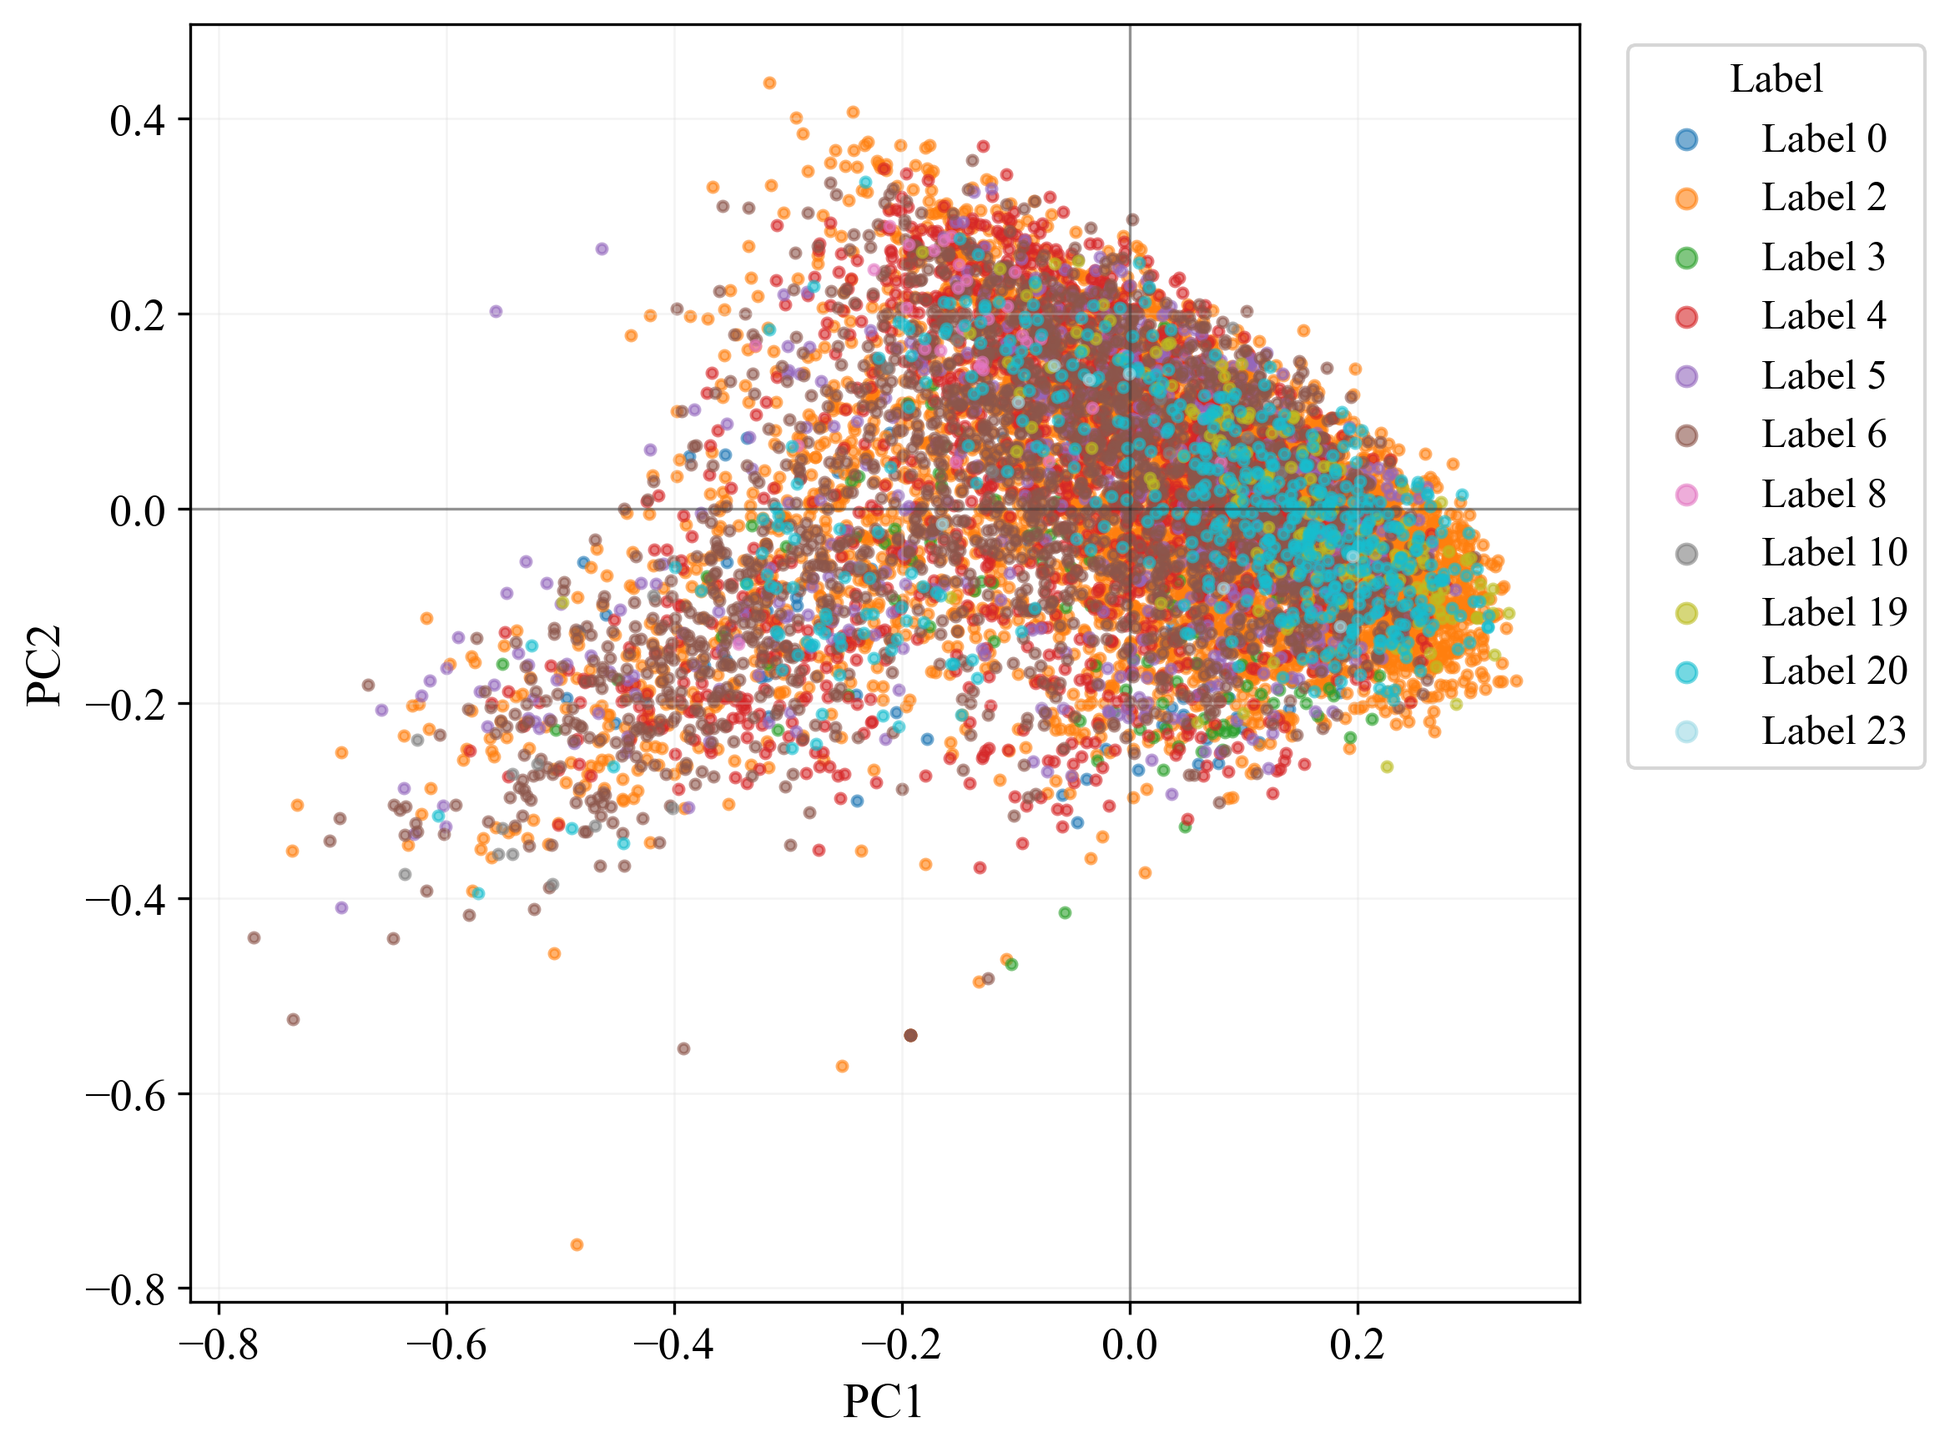
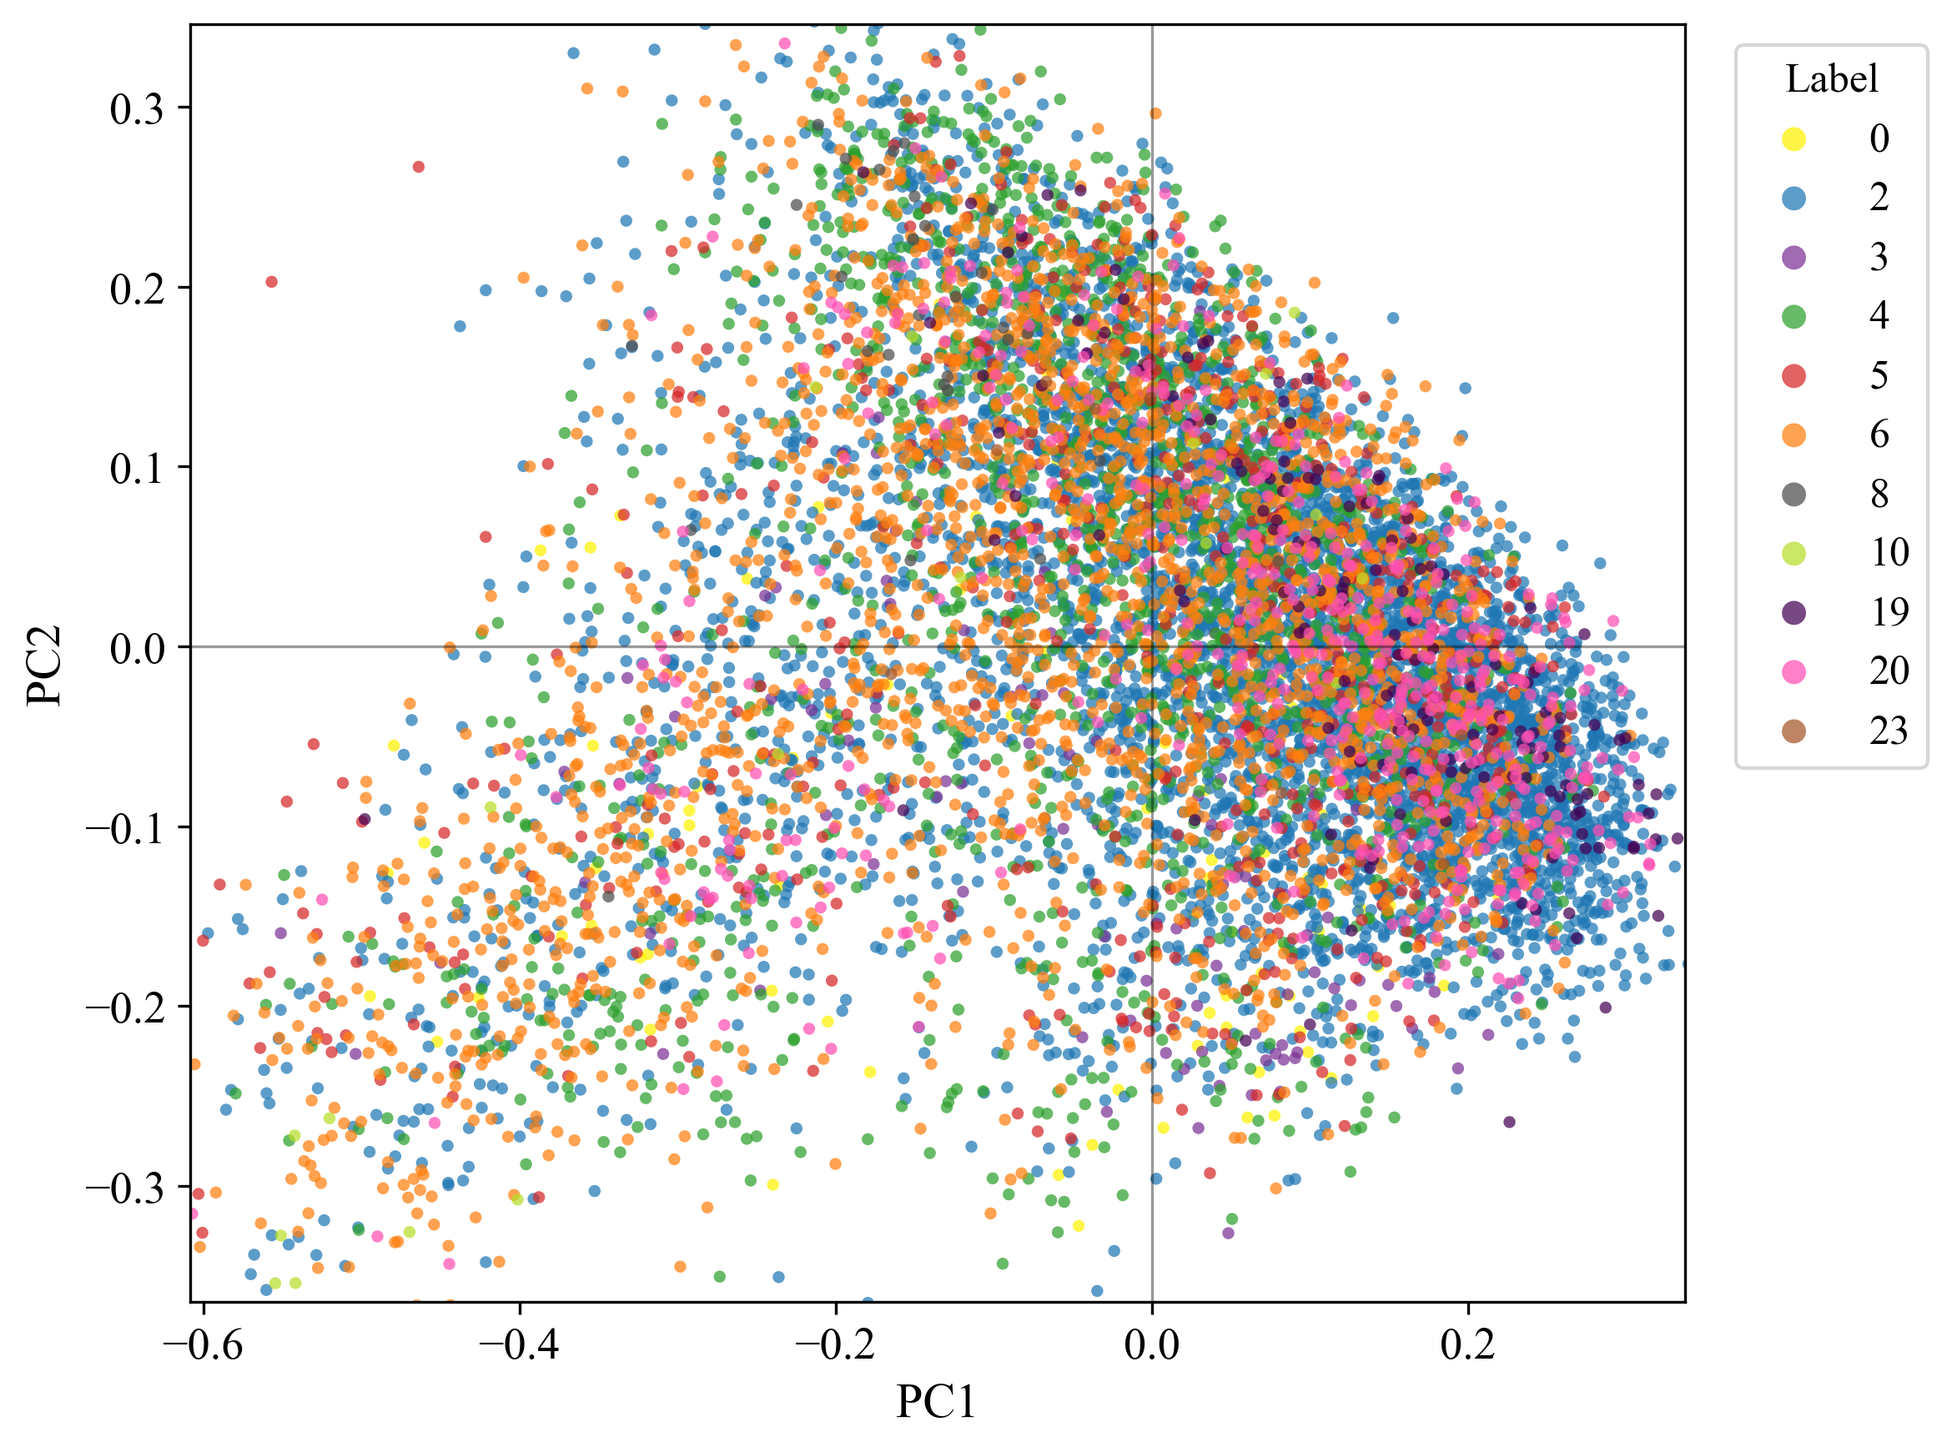
corrections and graphs

diff --git a/Chapters/Ch_5.tex b/Chapters/Ch_5.tex
@@ -7,49 +7,44 @@ This chapter presents the experimental results obtained with the computational p
 
 In this work, PCA was first used as an exploratory tool to inspect the structure of the Raman dataset before building the classification model. To perform this step, PCA was calculated on the entire dataset after removing the non-informative labels, namely unlabelled/transparent pixels and artefacts, as described in \Cref{sec:labels}.
 
-As discussed previously, PCA is an unsupervised machine learning method. The final objective of this analysis is therefore not to decide which spectral components are more relevant to distinguish different biological samples or to classify them according to their composition, but rather to investigate the content of the spectra in terms of explained variance to understand whether they contain particularly relevant directions and whether a more compact representation may be adequate for our dataset. If this were the case, it would be possible to reduce the dimensionality of our data to the number of components most suitable for training the artificial neural network, for the reasons explained in \Cref{sec:dimensionality_reduction}. 
+As discussed previously, PCA is an unsupervised machine learning method. The final objective of this analysis is therefore not to decide which spectral components are more relevant to distinguish different biological classes within samples or to perform classification, but rather to investigate the content of the spectra in terms of explained variance to understand whether they contain particularly relevant directions and whether a more compact representation may be adequate for our dataset. If this were the case, it would be possible to reduce the dimensionality of our data to the number of components most suitable for training the artificial neural network, for the reasons explained in \Cref{sec:dimensionality_reduction}. 
 
-
-\subsection{Spectral input and centering}
-\label{subsec:pca_input_centering}
 
 The data was oranized in matrix \(\mathbf{X}\) introduced in
 \Cref{sec:dimensionality_reduction}.
-The matrix was constructed so that each column corresponds to one of the 483 bands and each row contains the intensities of each spectrum.
+The matrix was constructed so that each column corresponds to one of the 483 bands and each row contains the intensities.
 
-\Cref{fig:original_centered_spectrum} represents the centering of one single spectrum as described in \Cref{subsec:pca_centering_covariance}. This step is applied to all spectra in the dataset, and the new principal directions are calculated on the centered matrix \(\mathbf{X}_c\).
+\Cref{fig:original_centered_spectrum} visually represents the centring of one single spectrum as described in \Cref{subsec:pca_centering_covariance}. This step is applied to all spectra in the dataset, and the new principal directions are calculated on the centered matrix \(\mathbf{X}_c\).
 
 \begin{figure}[H]
     \centering
-    \includegraphics[width=0.65\textwidth]{Images/images_ch_5/05_original_vs_centered_spectrum.png}
+    \includegraphics[width=0.60\textwidth]{Images/images_ch_5/05_original_vs_centered_spectrum.png}
     \caption{Example of an original Raman spectrum and the corresponding centered spectrum used for PCA.}
     \label{fig:original_centered_spectrum}
 \end{figure}
 
-\subsection{Explained variance of the principal components}
-\label{subsec:pca_explained_variance_vibra}
 
-After the computation of the new principal components, the most interesting parameter that has been evaluated is the percentage of variance explained by each of these components, related to the singular values as explained in \Cref{subsec:pca_svd}. The scree plot in 
-\Cref{fig:pca_scree_plot} shows how most of the variance is retained by the first components, as expected from the theory, while the contribution of later components rapidly becomes smaller.
+After computing the new principal components, the most relevant parameter evaluated is the \textit{Explained Variance Ratio} (EVR) of each component, explained in \Cref{subsec:pca_svd}. The scree plot in 
+\Cref{fig:pca_scree_plot} shows how most of the variance is retained by the first components, consistent with the theory, as we expect the new set of directions to be ordered, while the contribution of later components rapidly becomes smaller and negligible.
 
 \begin{figure}[H]
     \centering
-    \includegraphics[width=0.65\textwidth]{Images/images_ch_5/07_scree_plot_explained_variance.png}
+    \includegraphics[width=0.60\textwidth]{Images/images_ch_5/07_scree_plot_explained_variance.png}
     \caption{Explained variance associated with the first principal components.}
     \label{fig:pca_scree_plot}
 \end{figure}
 
-The cumulative explained variance illustrated in \Cref{fig:pca_cumulative_variance} shows a steep initial increase and a progressive flattening of the curve. This proves how the last components are significantly less relevant considering the amount of information they contain; more specifically, we observe that keeping a representation made by the first 89 components only allows us to reach a 95 percent explained variance threshold.
+The \textit{Cumulative Explained Variance} (CEV) plotted in \Cref{fig:pca_cumulative_variance} shows a steep initial increase and a progressive flattening of the curve. This proves how the last components are significantly less relevant considering the amount of information they contain; more specifically, we observe that keeping a representation made by the first 89 components only allows us to reach the 95 per cent explained variance threshold.
 
 \begin{figure}[H]
     \centering
-    \includegraphics[width=0.65\textwidth]{Images/images_ch_5/06_cumulative_explained_variance.png}
+    \includegraphics[width=0.45\textwidth]{Images/images_ch_5/06_cumulative_explained_variance.png}
     \caption{Cumulative explained variance as a function of the number of retained principal components.}
     \label{fig:pca_cumulative_variance}
 \end{figure}
 
 \Cref{fig:pca_reconstruction_comparison} shows the effect of reconstructing the same
-spectrum with just one component and with \(89\) components. The first component is able to capture the dominant trend, whereas the reconstruction using \(89\) components preserves the main spectral profile while providing a more compact representation; for this reason, it is of particular interest.
+spectrum with just one component and with \(89\) components. The first component is able to capture the dominant trend, whereas the reconstruction using \(89\) components preserves the main spectral profile while providing a more compact representation.
 
 \begin{figure}[H]
     \centering
@@ -64,13 +59,11 @@ spectrum with just one component and with \(89\) components. The first component
     \label{fig:pca_reconstruction_comparison}
 \end{figure}
 
-\subsection{Projection of spectra in PCA space}
-\label{subsec:pca_projection_vibra}
 
-In the PCA space, each spectrum can be visualised as a point in a 483-dimensional space if all principal directions are considered, and the Raman dataset is therefore a point cloud.  Reducing the representation to fewer components also reduces the dimensionality of this space, projecting the data onto the directions along which the data cloud extends the most, which are equivalent to the first principal directions. 
+In the PCA space, each spectrum can be visualised as a point in a 483-dimensional space if all principal directions are considered, and the Raman dataset is therefore a point cloud.  Reducing the representation to fewer components also reduces the dimensionality of this space, projecting the data onto the directions along which the data cloud extends the most (a new subspace), which are equivalent to the first principal directions.
 
 The score plots in \Cref{fig:pca_score_pc1_pc2} and \Cref{fig:pca_score_pc1_pc483} were generated on a random subset of
-\(10000\) spectra.
+\(10000\) spectra, for better readability.
 
 \begin{figure}[H]
     \centering
@@ -85,9 +78,9 @@ The score plots in \Cref{fig:pca_score_pc1_pc2} and \Cref{fig:pca_score_pc1_pc48
     \label{fig:pca_score_plots}
 \end{figure}
 
-\Cref{fig:pca_score_pc1_pc2} shows how the cloud is distributed along both the PC1 and PC2 axes, with a wider spatial extent along the former, consistent with the fact that the former component explains a greater variance. Points associated with spectra labelled differently, depicted in different colours, overlap, indicating that the biological classes are not distinguishable in this examination. More specifically, it is relevant to point the attention on the distribution of the tumoral classes: label 2 (\textit{tumor}) appears widely distributed, suggesting a strong spectral similarity to several of the tissues under consideration; label 20 (\textit{tumor with necrosis}) seems to be concentrated more on the right side of the cloud, but it still overlaps too much with other labels to allow for definitive conclusions. Since PCA is unsupervised, it is not necessarily expected to find a criterion for classification
+\Cref{fig:pca_score_pc1_pc2} shows how the cloud is distributed along both the PC1 and PC2 axes, with a wider spatial extent along the former, consistent with the fact that the former component explains a greater variance. Points associated with spectra labelled differently, depicted in different colours, overlap, indicating that the biological classes are not distinguishable in this examination. More specifically, it is relevant to point attention to the distribution of the tumoral class previously defined: label 2 (\textit{tumor}) and label 20 (\textit{tumor with necrosis}) seem to be concentrated more on the right side of the cloud, suggesting a possible pattern of distinction from other labels. Nevertheless, this does not apply consistently to all the points represented. Many appear widely distributed, suggesting strong spectral similarity to several of the tissues under consideration and do not allow for definitive conclusions. PCA is unsupervised, so, as noticed before, it is not necessarily expected to find a criterion for classification; supervised machine learning methods will be required.
  
-\Cref{fig:pca_score_pc1_pc483} highlights the large difference in the distribution of data along the first and last components calculated by PCA. The cloud is particularly wide along the first component and compressed almost to zero along PC483, with few exceptions with respect to the number of data. 
+\Cref{fig:pca_score_pc1_pc483} highlights the large difference in the distribution of data along the first and last components calculated by PCA. The cloud lies along the first principal component and is compressed almost to zero along PC483, with a few exceptions with respect to the number of data points. 
 
 \section{Configuration of the final experiments}
 \label{sec:final_experiments_configuration}
@@ -252,15 +245,18 @@ The curves for the single-class problem, on the other hand, improved regularly i
 \section{Per-sample analysis}
 \label{sec:per_sample_analysis}
 
-For a more critical analysis, it is important to understand whether errors are evenly distributed across the dataset or are concentrated in specific samples. Despite the large number of spectra in the dataset, they are derived from only \(25\) patients, so many of the spectra do not count as independent observations because they may exhibit similarities. In our specific case, it is crucial to carry out this type of investigation instead of assessing performance across all pixels together, whose overall average may not be sufficiently representative of the model's real capabilities. The per-sample analysis highlights the internal instability of the test and the model's ability to generalise across different patients and specimens.
+For a more critical analysis, it is important to understand whether errors are evenly distributed across the dataset or are concentrated in specific samples. Despite the large number of spectra in the dataset, they are derived from only \(25\) patients, so many of the spectra do not count as independent observations because they may exhibit similarities. In our specific case, it is crucial to carry out this type of investigation instead of assessing performance across all pixels together, whose overall average may not be sufficiently representative of the model's real capabilities. The per-sample analysis highlights the internal inconsistency of the test and the model's ability to generalise across different patients and specimens. 
 
-\Cref{fig:sample_f1_comparison} shows the \textit{F1-score}, which combines \textit{precision} and \textit{recall}, calculated by partitioning the test set pixels by sample and comparing model predictions with the actual labels for each group. A high \textit{F1} means that the model recognises the \textit{tumour} class well within the same sample. On the contrary, a low value indicates that the specific sample is difficult and the prediction contains many \textit{false positives}, \textit{false negatives}, or both.
 
-First of all, the result of this comparison confirms what has already been observed in \Cref{sec:aggregated_classification_results}, namely that the macro-class problem is more complicated and unstable because it introduces greater intra-class heterogeneity, with an average \textit{F1} per sample of \(0{,}713\), compared with \(0{,}792\) for the single-class problem.
-Some of the most difficult classified samples in the \textit{tumour} vs \textit{healthy} experiment improve in the \textit{tumour} vs \textit{stroma} problem. The most obvious case is \(3535\_019\) which goes from \textit{F1} approximately \(0{,}43\) to about \(0{,}77\) between the two experiments. This supports the thesis that the difficulty in predictions is closely linked to the definition of the negative class.
+\Cref{fig:sample_f1_comparison} shows the \textit{F1-score} calculated by partitioning the test set pixels by sample and comparing the model's performance for each group.
+F1 was chosen because it combines \textit{precision} and \textit{recall}, evaluating the quality of the prediction on the positive class: a high \textit{F1} means that the model recognises the \textit{tumour} class well within the same sample. Conversely, a low value indicates that a specific sample is difficult, with many \textit{false positives}, \textit{false negatives}, or both.
+Although the AUC is informative for the global evaluation, it was not selected to carry out this comparison as it requires both classes to be present within each evaluated group; \textit{F1} instead can be used more consistently across samples with different class content.
 
-Other cases, instead, show poor performace in both experiments, as in \(3439\_009\). The sample-specific difficulty could be related to spectral differences typical of an individual patient or specimen. In these cases, the model fails to generalise adequately due to the high biological variance found.
-Furthermore, it is not excluded that, in some cases, a very poor performance on a sample may depend on the quality of the annotations.
+First of all, the result of this comparison confirms what has already been observed in \Cref{sec:aggregated_classification_results}, namely that the macro-class problem is more complicated and unstable because it introduces greater intra-class heterogeneity, with an average \textit{F1} per sample of \(0{,}713\), compared with \(0{,}792\) for the single-class task.
+Some of the most difficult classified samples in the \textit{tumour} vs \textit{healthy} experiment improve in the \textit{tumour} vs \textit{stroma} one; the most obvious case is \(3535\_019\) which goes from \textit{F1} approximately \(0{,}43\) to about \(0{,}77\) between the two experiments. This supports the thesis that the difficulty in predictions is closely linked to the definition of the negative class.
+
+Other cases, instead, show poor performance in both experiments, as in \(3439\_009\). The sample-specific difficulty could be related to spectral differences typical of an individual patient or specimen. In these cases, the model fails to generalise adequately due to the high biological variance found.
+Furthermore, it is not excluded that a very poor performance on a sample may depend on the quality of the annotations.
 
 
 \begin{figure}[H]
@@ -331,8 +327,9 @@ The comparison of raw and smoothed results for both binary problems, presented i
 \end{table}
 
 
-More specifically, a result of particular merit is interest is the one of the \(7 \times 7\) filter. This leads to clearly better predictions than smaller filters, in terms of global metrics.
+More specifically, a result of particular merit is the one of the \(7 \times 7\) filter. This leads to clearly better predictions than smaller filters, in terms of global metrics.
 Larger kernels tend to increase \textit{tumour} \textit{recall}, which could be desirable based on what was discussed earlier, but at the same time they lead to an overly aggressive imbalance in the confusion matrix by increasing \textit{false positives} and thus reducing TNR and the overall reliability of the classifier. This is why, although the 10x10 filter shows a higher \textit{AUC}, it is not the best compromise when evaluated against the \textit{TNR} and would represent an unwise choice.
+
 The results of applying a filter as large as \(15 \times 15\) make clear that the benefits of smoothing are limited, and that excessively increasing the filter size leads to deterioration, "spreading" the \textit{tumour} class onto the healthy one.
 
 \begin{figure}[H]
